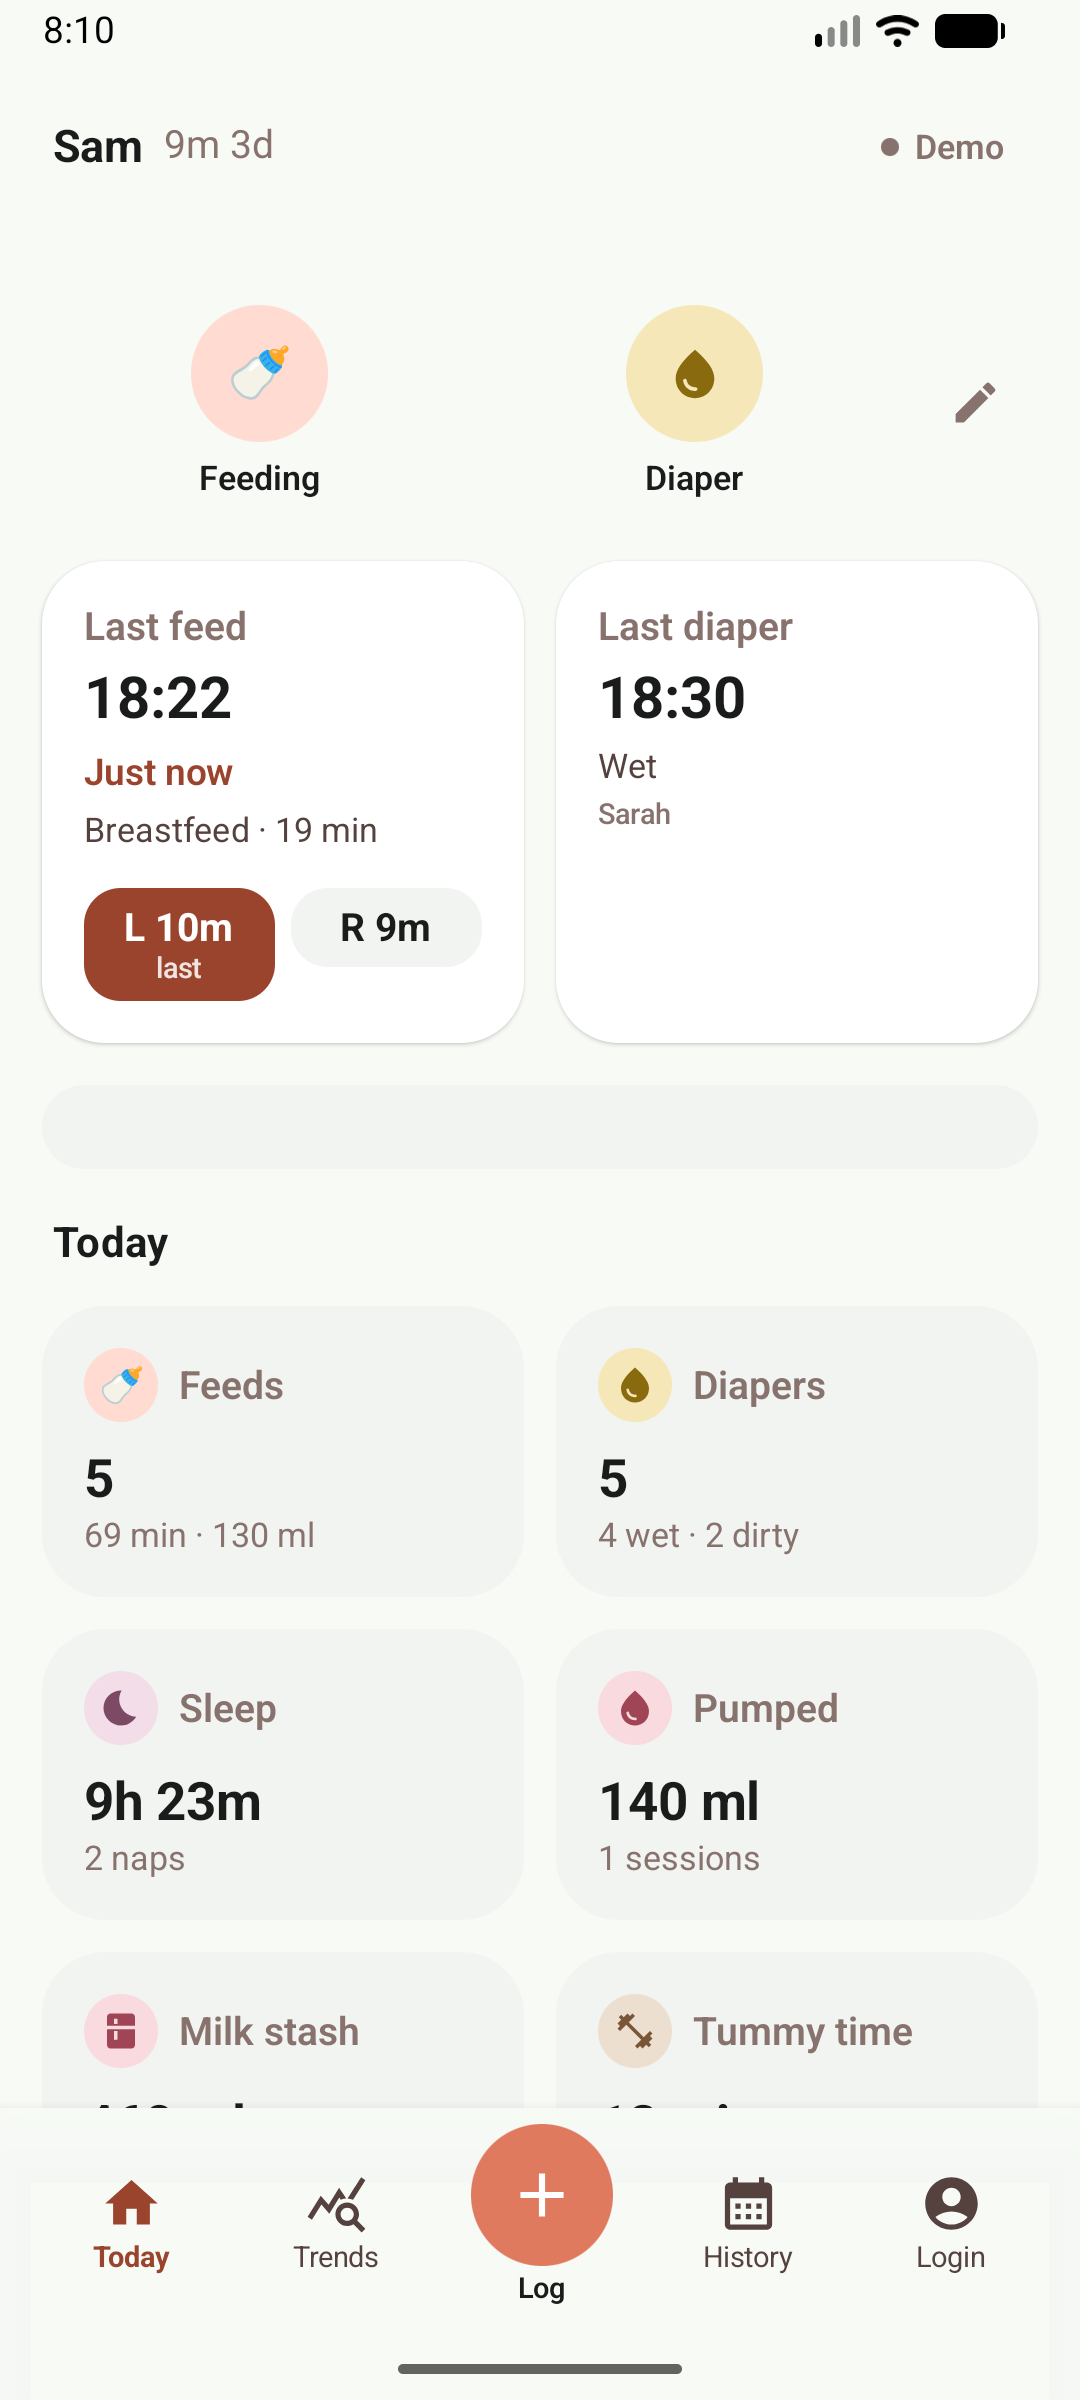
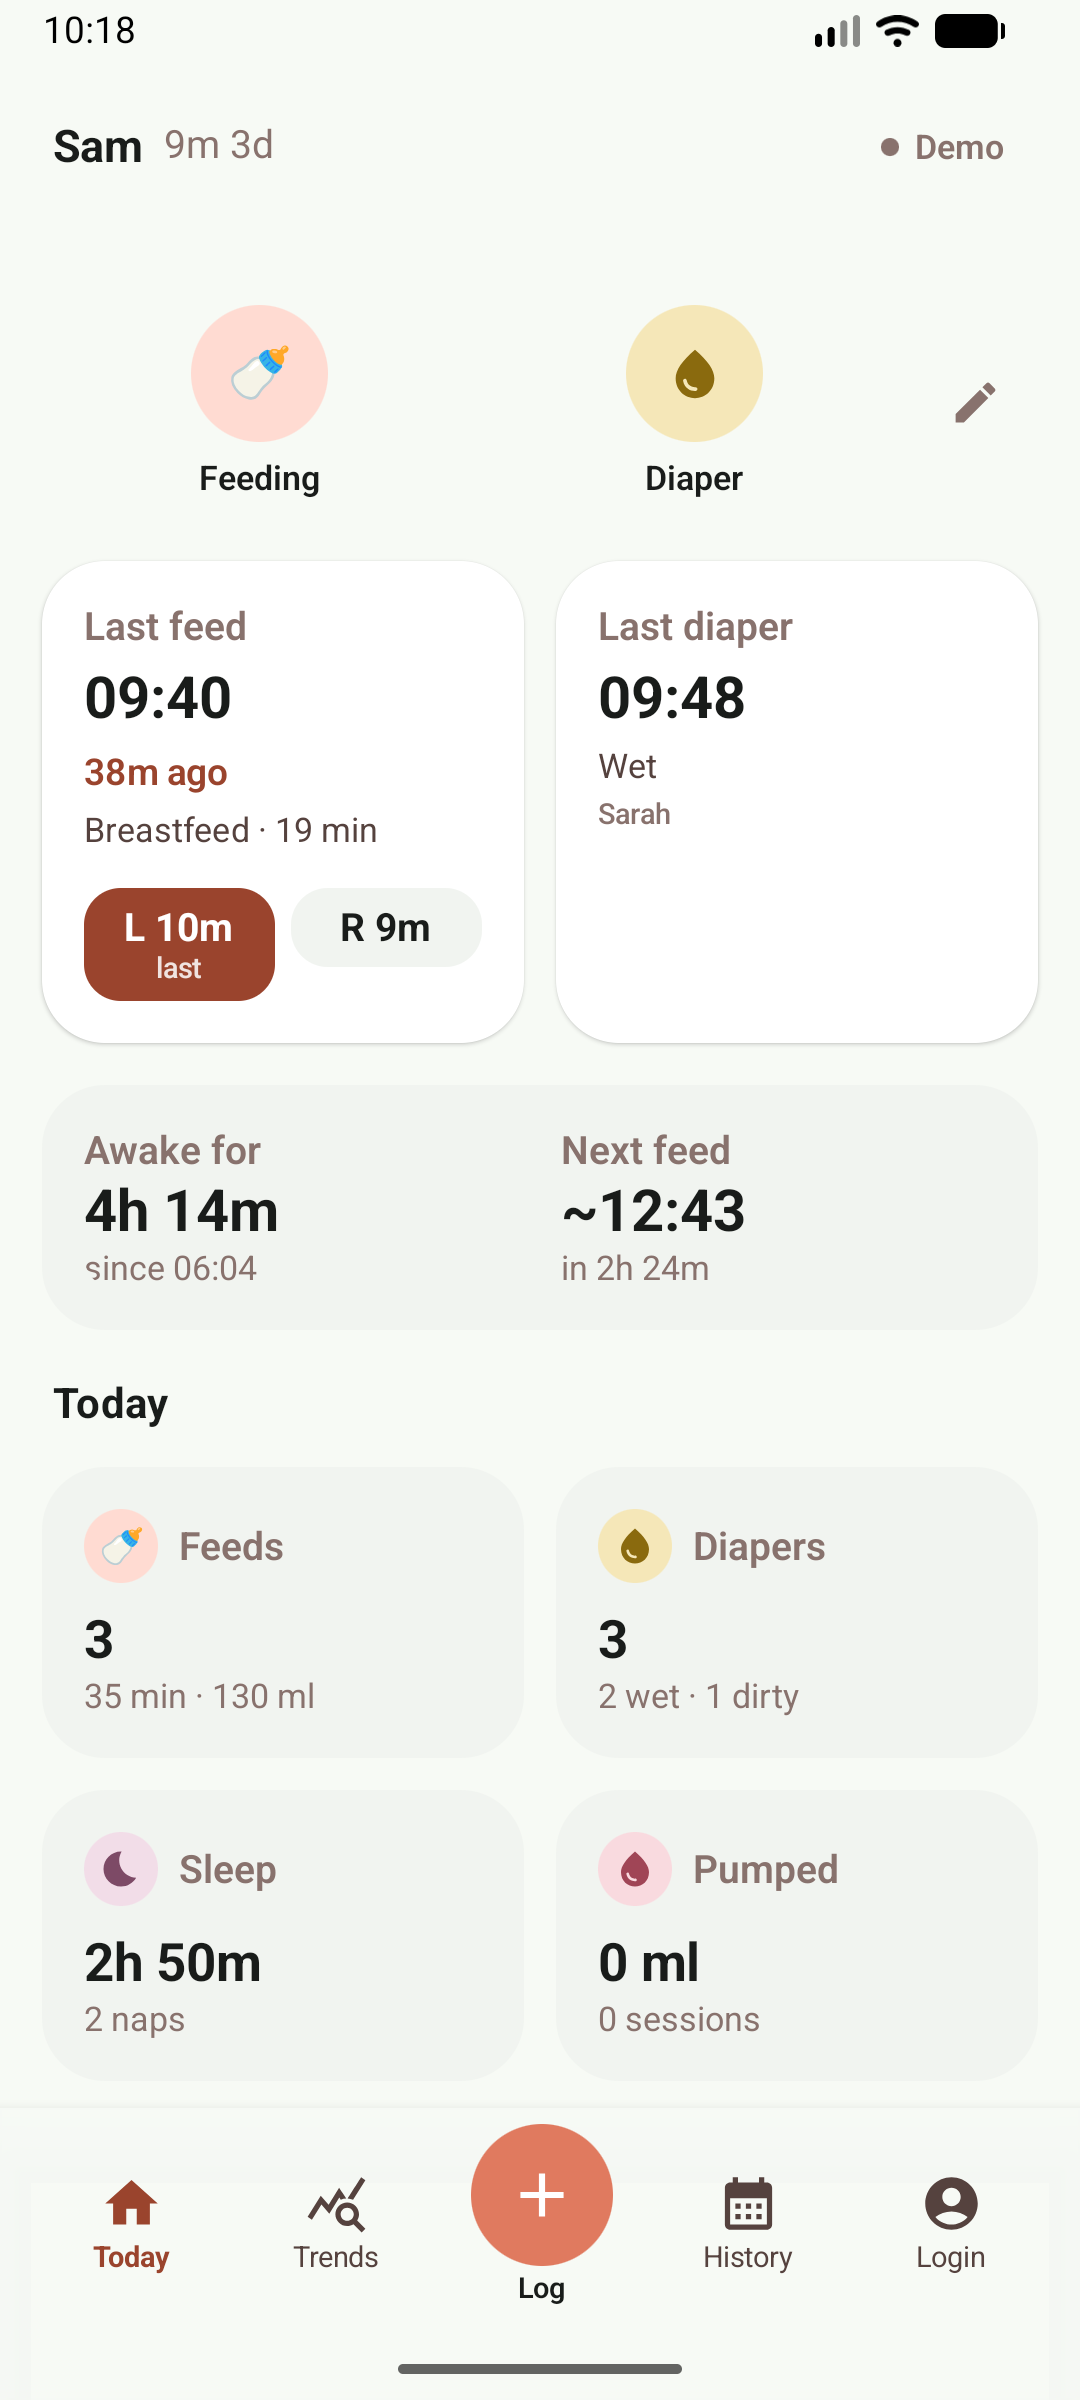
README screenshots of widgets and notifications; widget and demo fixes
- README: home-screen widget and lock-screen notification screenshots, Today
  showing the next-feed estimate, night-mode Today; widget descriptions match
  what the widgets show
- Quick log widget: icon beside the label so the buttons fit one row (labels
  were clipped); neutral placeholder text in widget layouts
- Demo mode: sample day shifted to end at the current time, so "last feed",
  "next feed" and "awake for" read naturally; sample feed-interval stats

diff --git a/app/src/main/java/com/example/data/repository/BabyBuddyRepository.kt b/app/src/main/java/com/example/data/repository/BabyBuddyRepository.kt
@@ -331,6 +331,7 @@ class BabyBuddyRepository {
         prefs?.edit()?.putString(PREF_CAREGIVER, "Sarah")?.apply()
 
         _isServerDisconnectedView.value = false
+        setThemeMode(ThemeMode.LIGHT)
         _connectionConfig.value = ServerConnectionConfig(
             serverUrl = "demo.babybuddy.local",
             apiToken = "demo-token",
@@ -352,7 +353,7 @@ class BabyBuddyRepository {
         val today = startOfTodayMillis()
         val cal = Calendar.getInstance()
 
-        fun timeMs(daysAgo: Int, hour: Int, minute: Int): Long {
+        fun clockMs(daysAgo: Int, hour: Int, minute: Int): Long {
             cal.timeInMillis = today
             cal.add(Calendar.DAY_OF_YEAR, -daysAgo)
             cal.set(Calendar.HOUR_OF_DAY, hour)
@@ -361,6 +362,11 @@ class BabyBuddyRepository {
             cal.set(Calendar.MILLISECOND, 0)
             return cal.timeInMillis
         }
+
+        // The sample day is written as if it's now 19:00; shift it so its last entries are always
+        // just before now (whatever the real time), so "last feed", "next feed" and "awake for" read naturally
+        val shift = System.currentTimeMillis() - clockMs(0, 19, 0)
+        fun timeMs(daysAgo: Int, hour: Int, minute: Int): Long = clockMs(daysAgo, hour, minute) + shift
 
         val demoFeedings = mutableListOf<FeedingEvent>()
         val demoDiapers = mutableListOf<DiaperEvent>()
@@ -456,6 +462,10 @@ class BabyBuddyRepository {
         _lastSleepEndRemote.value = _sleeps.value.firstOrNull()?.timeMillis
         _lastBathRemote.value = _notes.value.firstOrNull { BATH_TAG in it.tags }?.timeMillis
         _stashBase.value = StashBase(450, System.currentTimeMillis(), 0, 0)
+        _temperatures.value = listOf(
+            TemperatureEvent(id = idCounter++, temperature = 36.8, timeMillis = timeMs(0, 9, 30), timeFormatted = formatClock(timeMs(0, 9, 30)), caregiver = "Sarah")
+        )
+        _dashboardWidgets.update { list -> list.map { it.copy(isEnabled = true) } }
     }
 
     suspend fun testConnection(
@@ -2740,6 +2750,12 @@ class BabyBuddyRepository {
 
     /** Average time between feed starts per day for the last 7 days, plus this week vs the week before. */
     suspend fun loadFeedIntervals(): Result<FeedIntervalStats> = withContext(Dispatchers.IO) {
+        if (_connectionConfig.value.isDemoMode) {
+            // Sample numbers to match the demo day (a feed about every 3 hours)
+            return@withContext Result.success(
+                FeedIntervalStats(listOf(185, 178, 192, 181, 175, 188, 180), thisWeekAverageMinutes = 183, lastWeekAverageMinutes = 171)
+            )
+        }
         val api = remoteApi
         val child = remoteChildId
         if (api == null || child == null) return@withContext Result.failure(IllegalStateException("Not connected"))

diff --git a/app/src/main/java/com/example/ui/MainViewModel.kt b/app/src/main/java/com/example/ui/MainViewModel.kt
@@ -250,7 +250,7 @@ class MainViewModel(
         if (refreshJob?.isActive == true) return
         refreshJob = viewModelScope.launch {
             _isRefreshing.value = true
-            if (repository.refresh()) {
+            if (repository.refresh() || repository.connectionConfig.value.isDemoMode) {
                 repository.loadFeedIntervals().onSuccess { _feedIntervals.value = it }
             }
             _isRefreshing.value = false

diff --git a/README.md b/README.md
@@ -8,14 +8,24 @@ Built with Kotlin, Jetpack Compose and Material 3. Originally generated with Goo
 
 <table>
   <tr>
-    <td><img src="docs/screenshots/01-today-dashboard.png" alt="Today dashboard" width="250"></td>
-    <td><img src="docs/screenshots/02-quick-log.png" alt="Log screen" width="250"></td>
-    <td><img src="docs/screenshots/03-trends.png" alt="Trends" width="250"></td>
+    <td align="center"><b>Today Dashboard (Day)</b></td>
+    <td align="center"><b>Today Dashboard (Night)</b></td>
+    <td align="center"><b>Quick Log</b></td>
   </tr>
   <tr>
+    <td><img src="docs/screenshots/01-today-dashboard.png" alt="Today dashboard (Day)" width="250"></td>
+    <td><img src="docs/screenshots/06-today-dashboard-night.png" alt="Today dashboard (Night)" width="250"></td>
+    <td><img src="docs/screenshots/02-quick-log.png" alt="Log screen" width="250"></td>
+  </tr>
+  <tr>
+    <td align="center"><b>24h Trends</b></td>
+    <td align="center"><b>History Timeline</b></td>
+    <td align="center"><b>Settings</b></td>
+  </tr>
+  <tr>
+    <td><img src="docs/screenshots/03-trends.png" alt="Trends" width="250"></td>
     <td><img src="docs/screenshots/04-history.png" alt="History" width="250"></td>
-    <td><img src="docs/screenshots/05-settings.png" alt="Connect to a server" width="250"></td>
-    <td></td>
+    <td><img src="docs/screenshots/05-settings.png" alt="Settings" width="250"></td>
   </tr>
 </table>
 
@@ -37,22 +47,40 @@ Built with Kotlin, Jetpack Compose and Material 3. Originally generated with Goo
 - **Night mode** — automatic dim warm palette (by time of day or system setting).
 - **12/24-hour clock**, scroll-wheel or typed time entry, per-phone tracked-item hiding, configurable quick actions.
 
-### Home-Screen Widgets
+### Home-screen widgets
 
-The app includes three native Android home-screen widgets built with Jetpack Glance that update in real time directly from app state:
-- **Quick Log Widget** (`BabyBuddyQuickLogWidget`): Provides 1-tap logging buttons for Feeding, Diaper, Pumping, and Tummy time directly on your phone's home screen.
-- **Timer Widget** (`BabyBuddyTimerWidget`): Shows active nursing or sleep timer status with a live clock, active side indicator, and Left / Right / Pause / End controls.
-- **Daily Summary Widget** (`BabyBuddySummaryWidget`): At-a-glance summary showing today's totals (feed count, nursing duration, diaper counts, sleep time, and pumped volume).
+<img src="docs/screenshots/07-widgets.png" alt="Quick log, nursing timer and today summary widgets on an Android home screen" width="360" align="right">
 
-### Lock-Screen Controls & Reminders
+Three home-screen widgets that update straight from the app's state, even when the app is closed:
 
-- **Live Nursing Controls**: An ongoing notification displaying active feeding duration, Left/Right side split, and controls to switch sides or end the feed straight from your lock screen.
-- **Live Sleep Controls**: An ongoing notification displaying running sleep duration with a 1-tap End Sleep button.
-- **Smart Reminders**:
-  - **Feed Due Alarm**: Reminds you when a configurable time (e.g., 3 hours) has elapsed since the last feed started.
-  - **Awake For Alarm**: Alerts when the baby has been awake for a set threshold to prevent overtiredness.
-  - **Asleep For Alarm**: Notifies when a timed sleep session reaches a set duration limit.
-  - *Multi-device awareness*: Reminders verify against the Baby Buddy server before alerting, so if another caregiver logs a feed on another phone, false alarms are automatically suppressed.
+- **Quick log** — one-tap Feed, Diaper and Tummy time buttons, with the baby's name, age and when they were last fed.
+- **Nursing timer** — the running feed's live clock, current side and start time, with Switch side and Pause/Resume buttons.
+- **Today summary** — today's feed count and wet/dirty diapers; tap to open the app.
+
+Add them from the launcher's widget list or from **Customize Today → Phone Home Screen** in the app.
+
+<br clear="right">
+
+### Lock-screen controls
+
+<table>
+  <tr>
+    <td><img src="docs/screenshots/08-feed-notification.png" alt="Feeding notification with Left, Pause right and End buttons" width="400"></td>
+    <td><img src="docs/screenshots/09-sleep-notification.png" alt="Sleeping notification with a Woke up button" width="400"></td>
+  </tr>
+</table>
+
+- **Feeding** — while a feed runs: the active side, each side's time and the start time, with Left / Right (pause or switch) and End buttons, usable from the lock screen.
+- **Sleeping** — while a sleep is timed: when the baby fell asleep and a **Woke up** button that saves the sleep.
+
+Both can be turned off in Settings → Notifications.
+
+### Reminders
+
+- **Feed Due Alarm**: Reminds you when a configurable time (e.g., 3 hours) has elapsed since the last feed started.
+- **Awake For Alarm**: Alerts when the baby has been awake for a set threshold to prevent overtiredness.
+- **Asleep For Alarm**: Notifies when a timed sleep session reaches a set duration limit.
+- *Multi-device awareness*: Reminders verify against the Baby Buddy server before alerting, so if another caregiver logs a feed on another phone, false alarms are automatically suppressed.
 
 ## Requirements
 
